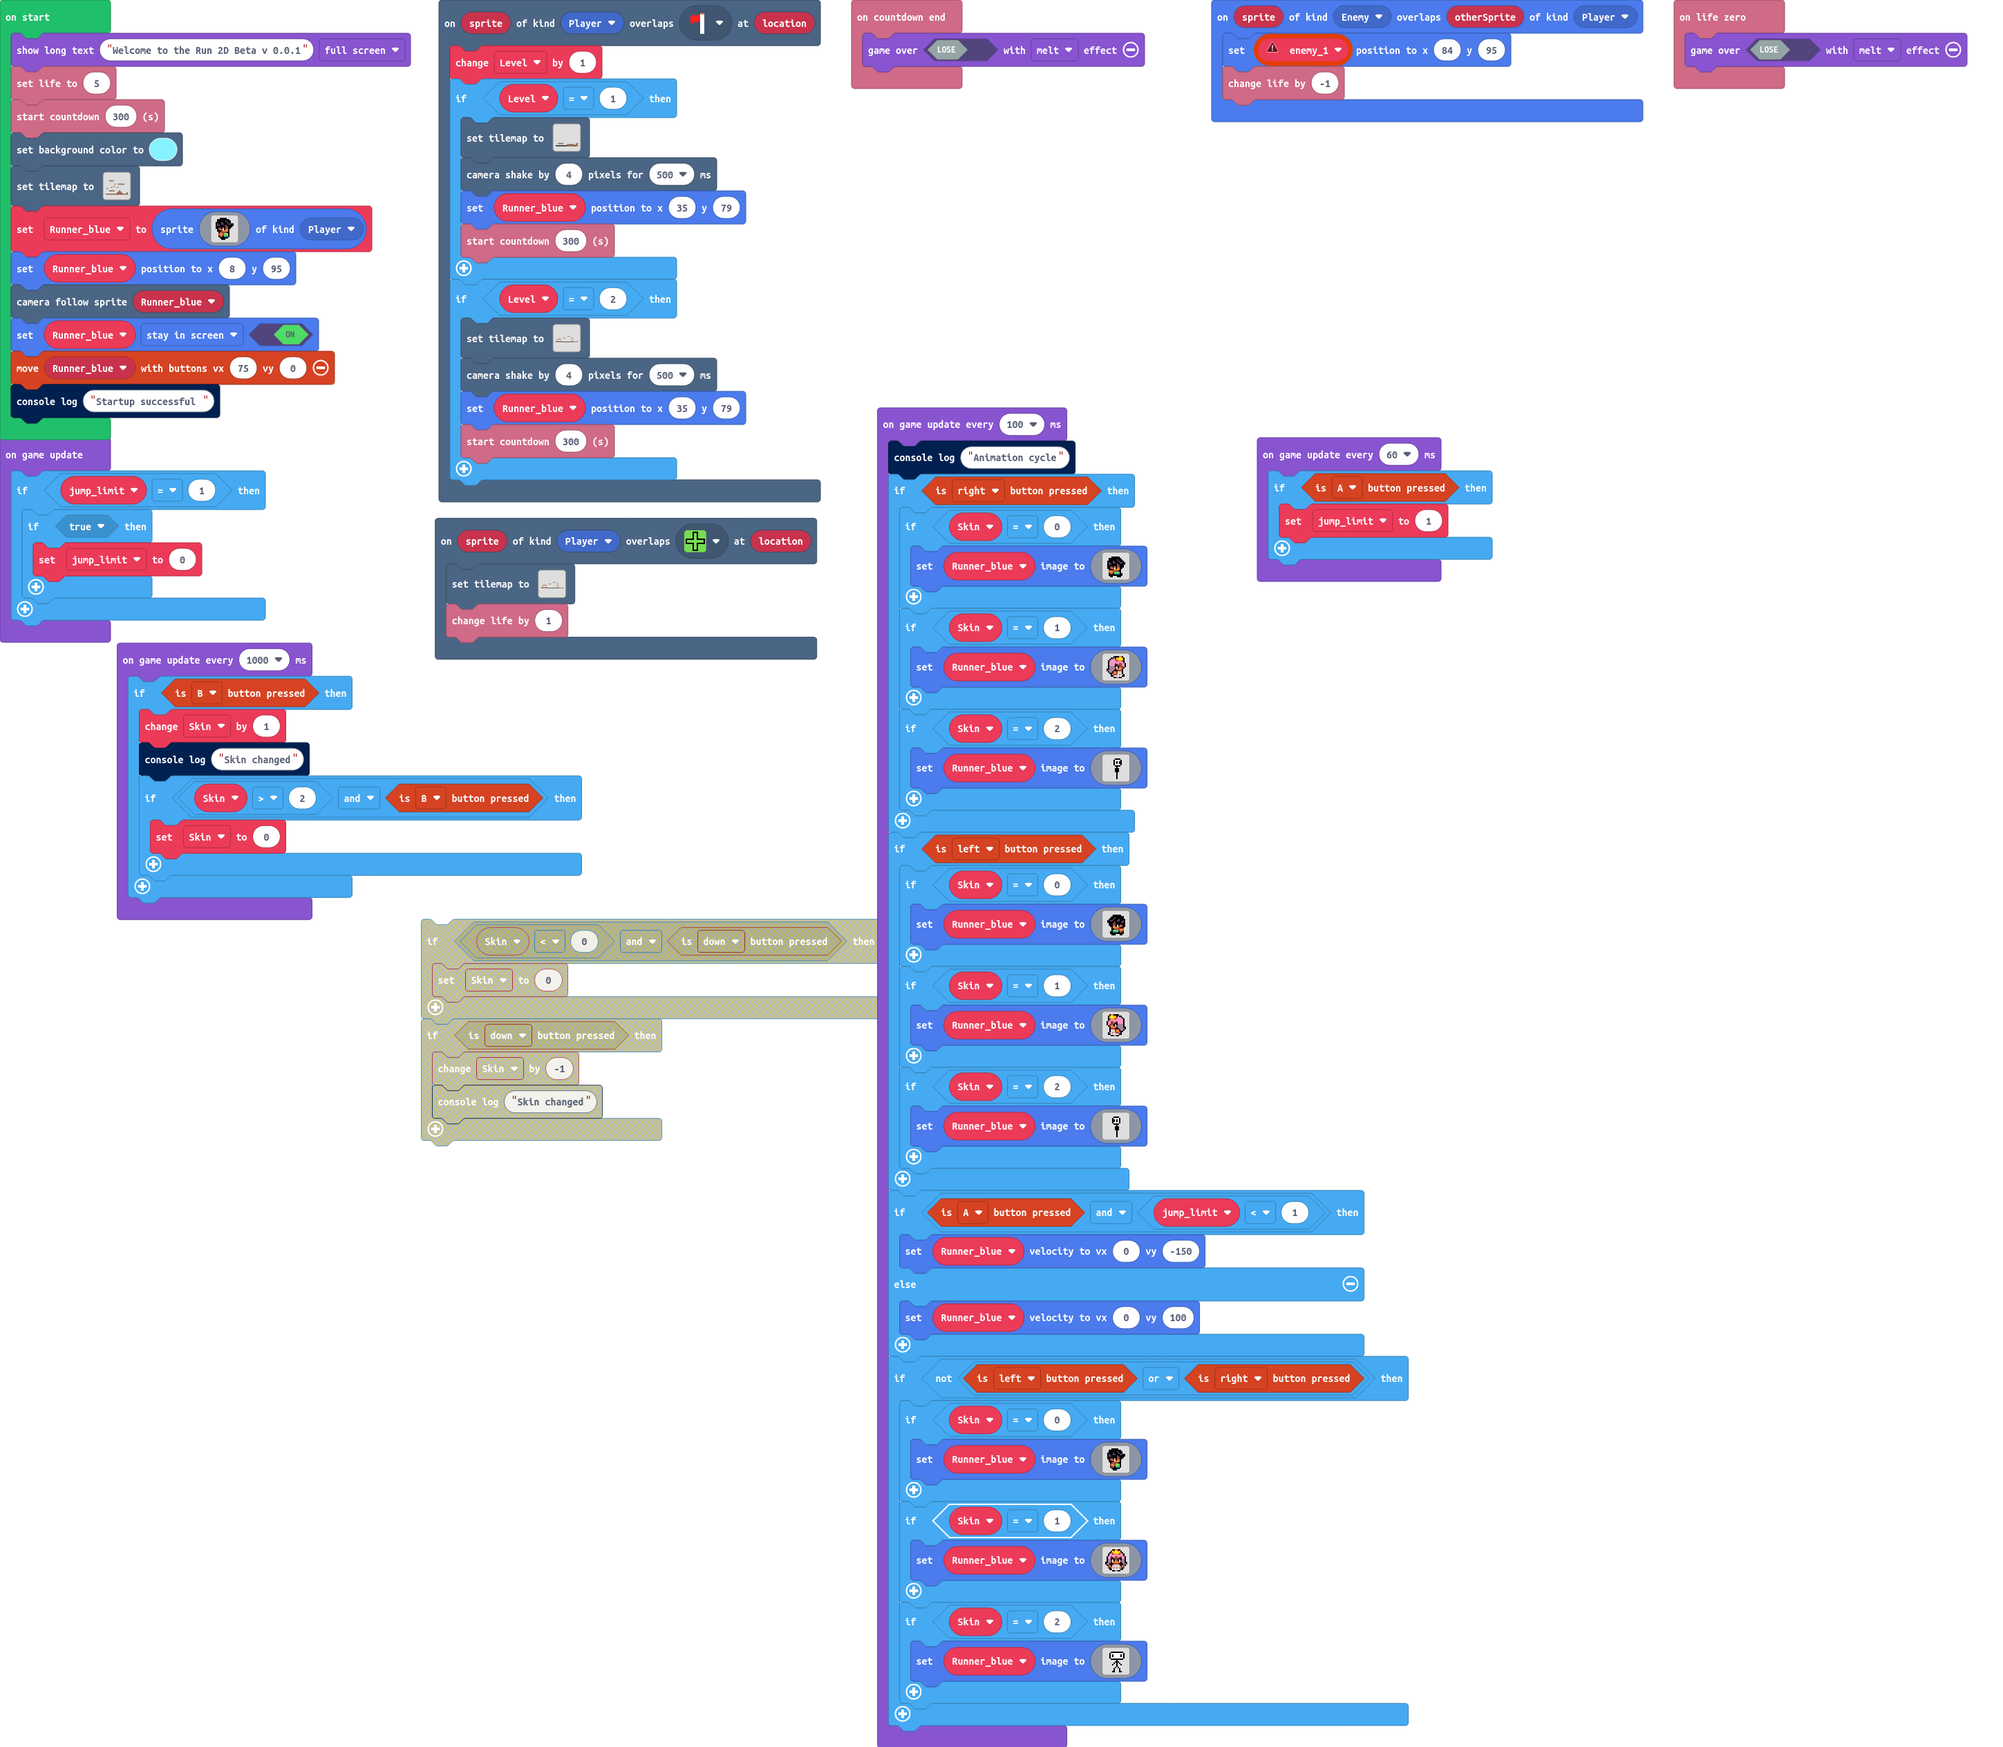
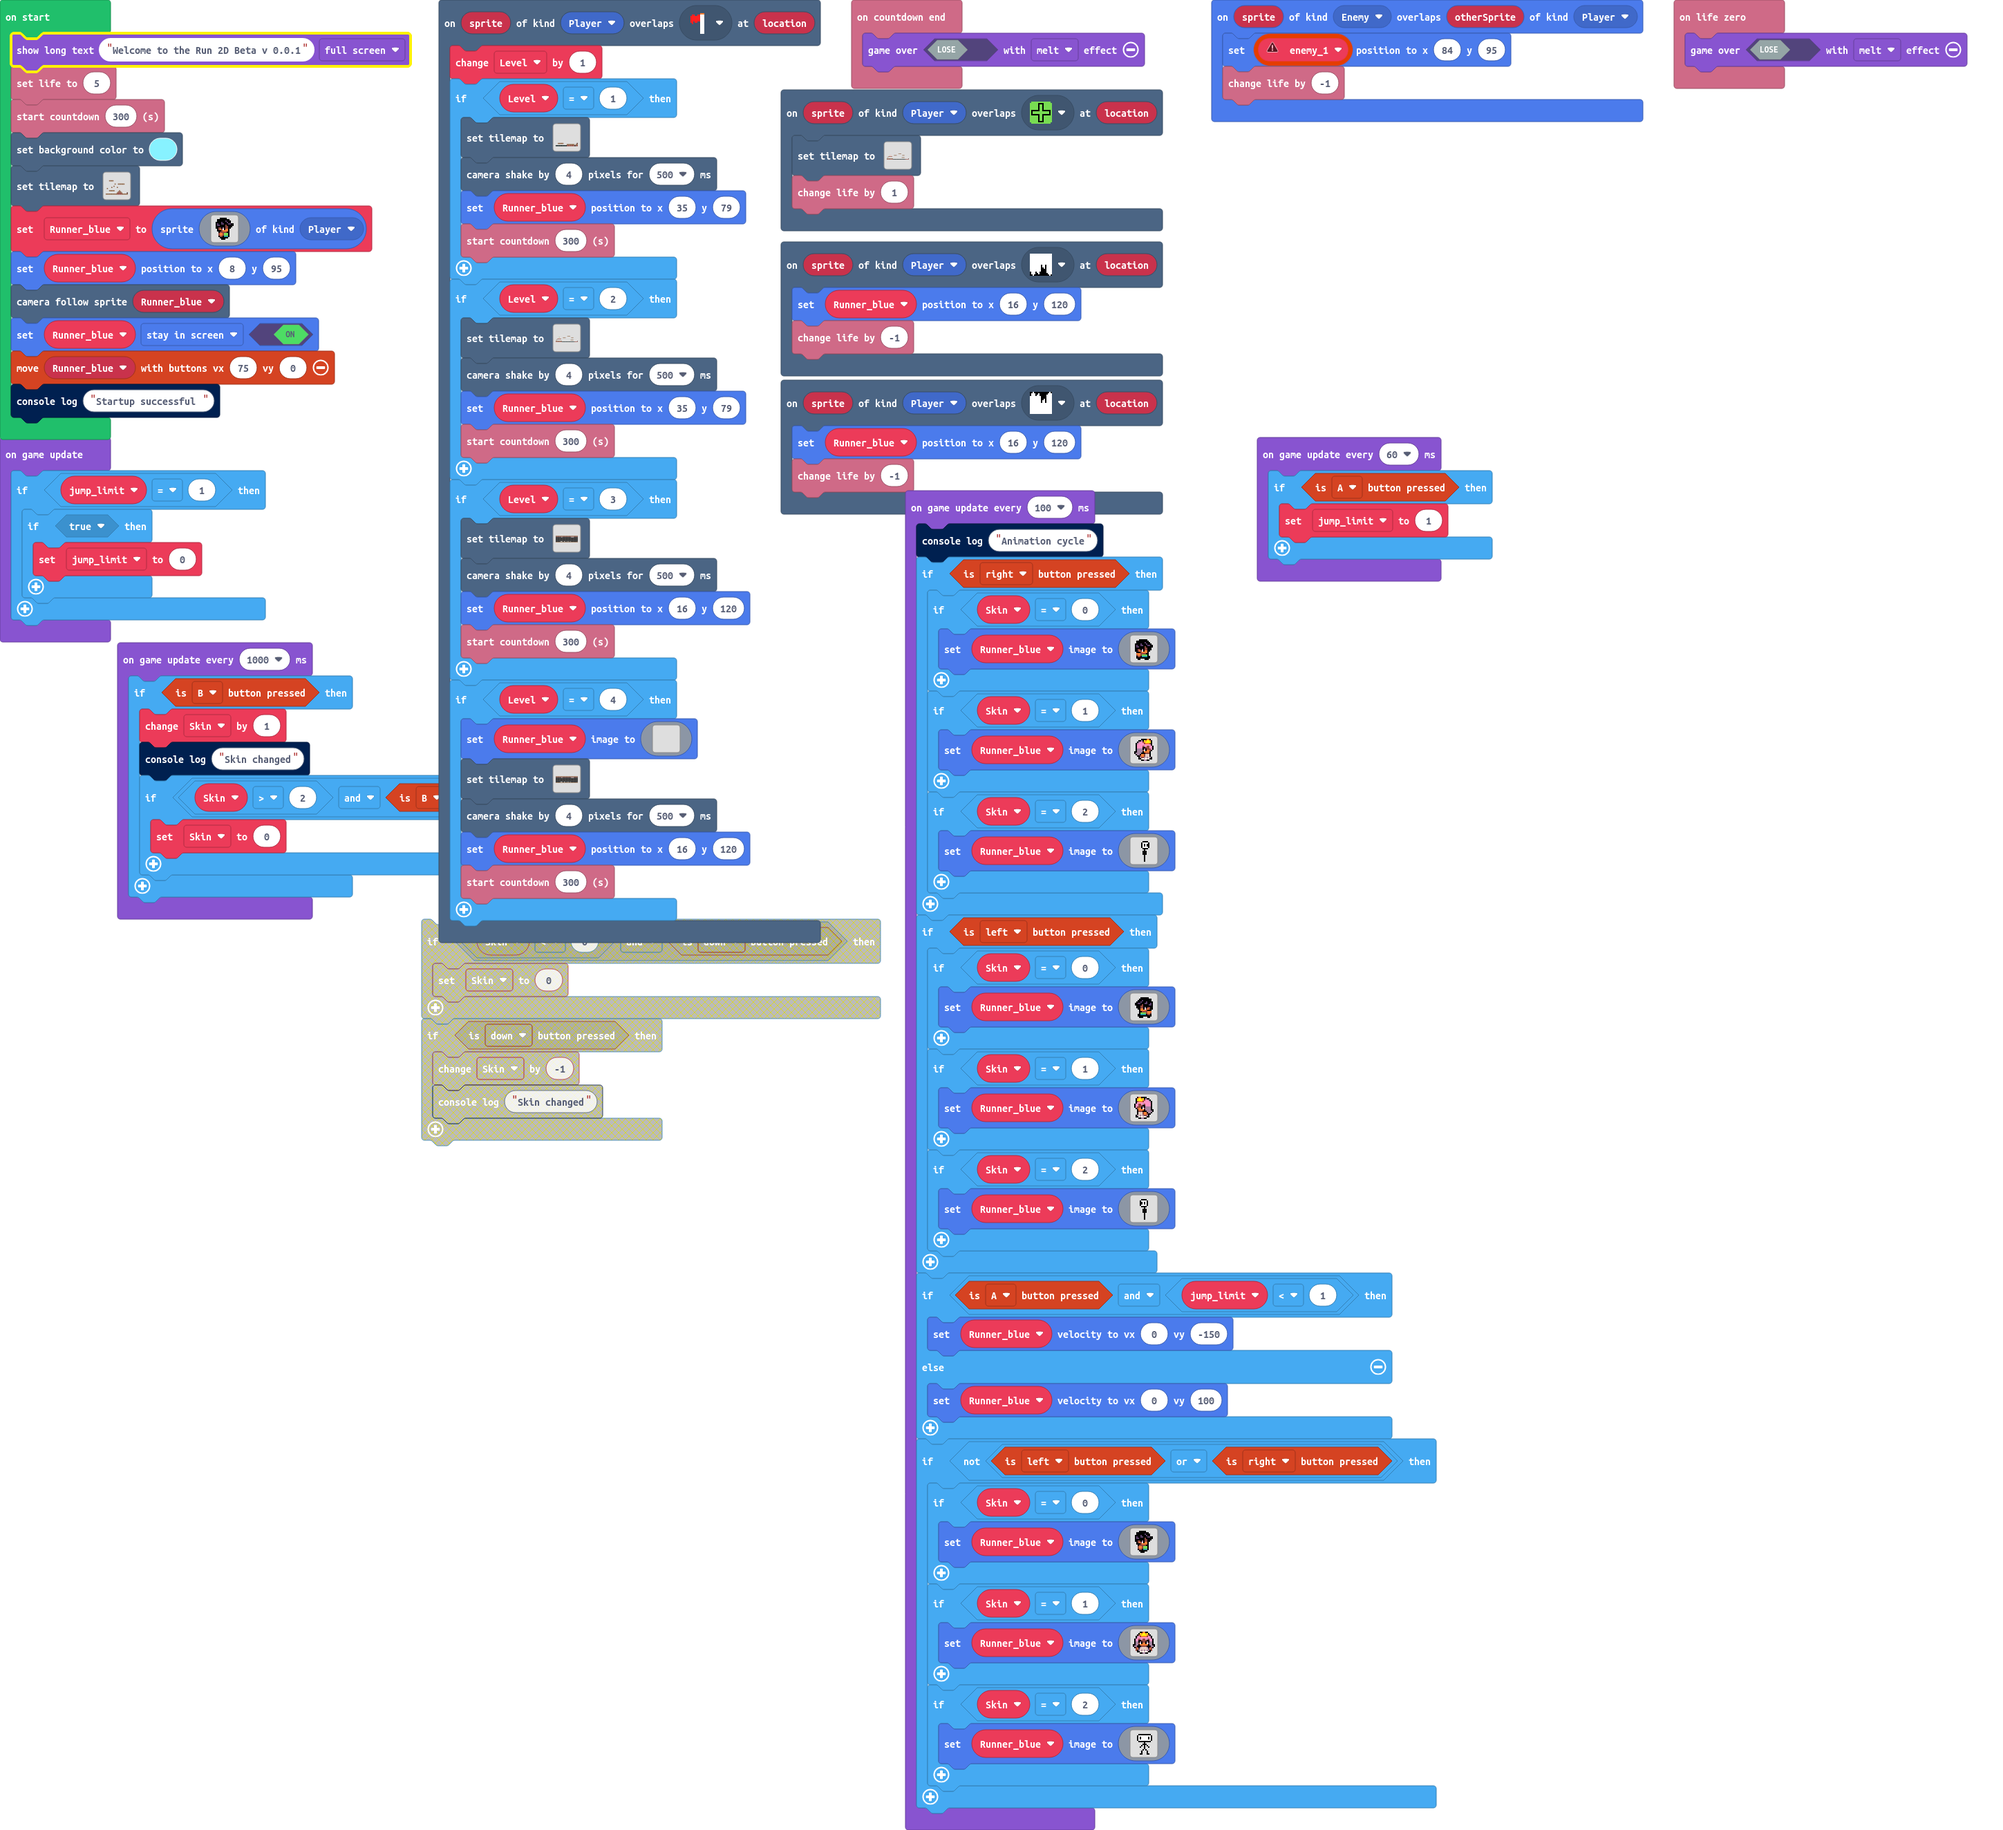
Update main.blocks, main.ts, tilemap.g.jres, tilemap.g.ts

diff --git a/main.ts b/main.ts
@@ -1,3 +1,7 @@
+scene.onOverlapTile(SpriteKind.Player, myTiles.tile22, function (sprite, location) {
+    Runner_blue.setPosition(16, 120)
+    info.changeLifeBy(-1)
+})
 scene.onOverlapTile(SpriteKind.Player, myTiles.tile16, function (sprite, location) {
     Level += 1
     if (Level == 1) {
@@ -46,6 +50,70 @@ scene.onOverlapTile(SpriteKind.Player, myTiles.tile16, function (sprite, locatio
         Runner_blue.setPosition(35, 79)
         info.startCountdown(300)
     }
+    if (Level == 3) {
+        tiles.setTilemap(tiles.createTilemap(hex`2800100000000000000000000000000000000000000000000000000000000000000000000000000000000000000000000000000000000000000000000000000000000000000000000000000000000000000000000000000000000000000000000000000000000000000000000000000000000000000000000000000000000000000000000000000000000000000000000000000000000000000000000000000000000000010101010101010101010101010101010101010101010101010101010101010101010101010101010202020202020202020202020202020202020202020202020202020202020202020202020202020203030303030303030303050503030303030303030303030303030303050505050503030303030303030303030303030303030303030303030303030303030303030303030303030303030303030303030303030303030303030303030303030303030303030303030303030303030303030303030303030303030303030303030303030303030303030303030303030303030303030303030303030303030303030303030303030303030303030303030303030303030303030303030303030303030303030303030303030303030303030303030303030303030303030303030303030303030303030303030303030303030303030303030303030303030303030303030303030303030303030303030303030303030303030303030303030303030303030303030303030303030303030303030303030303030303030303030303030303030303030404040303030404030303040303040303040303030303030303030303030601010101010101010101010101010101010101010101010101010101010101010101010101010101`, img`
+            . . . . . . . . . . . . . . . . . . . . . . . . . . . . . . . . . . . . . . . . 
+            . . . . . . . . . . . . . . . . . . . . . . . . . . . . . . . . . . . . . . . . 
+            . . . . . . . . . . . . . . . . . . . . . . . . . . . . . . . . . . . . . . . . 
+            . . . . . . . . . . . . . . . . . . . . . . . . . . . . . . . . . . . . . . . . 
+            . . . . . . . . . . . . . . . . . . . . . . . . . . . . . . . . . . . . . . . . 
+            2 2 2 2 2 2 2 2 2 2 2 2 2 2 2 2 2 2 2 2 2 2 2 2 2 2 2 2 2 2 2 2 2 2 2 2 2 2 2 2 
+            . . . . . . . . . . . . . . . . . . . . . . . . . . . . . . . . . . . . . . . . 
+            . . . . . . . . . . . . . . . . . . . . . . . . . . . . . . . . . . . . . . . . 
+            . . . . . . . . . . . . . . . . . . . . . . . . . . . . . . . . . . . . . . . . 
+            . . . . . . . . . . . . . . . . . . . . . . . . . . . . . . . . . . . . . . . . 
+            . . . . . . . . . . . . . . . . . . . . . . . . . . . . . . . . . . . . . . . . 
+            . . . . . . . . . . . . . . . . . . . . . . . . . . . . . . . . . . . . . . . . 
+            . . . . . . . . . . . . . . . . . . . . . . . . . . . . . . . . . . . . . . . . 
+            . . . . . . . . . . . . . . . . . . . . . . . . . . . . . . . . . . . . . . . . 
+            . . . . . . . . . . . . . . . . . . . . . . . . . . . . . . . . . . . . . . . . 
+            2 2 2 2 2 2 2 2 2 2 2 2 2 2 2 2 2 2 2 2 2 2 2 2 2 2 2 2 2 2 2 2 2 2 2 2 2 2 2 2 
+            `, [myTiles.transparency16,myTiles.tile4,myTiles.tile6,myTiles.tile19,myTiles.tile21,myTiles.tile22,myTiles.tile24], TileScale.Sixteen))
+        scene.cameraShake(4, 500)
+        Runner_blue.setPosition(16, 120)
+        info.startCountdown(300)
+    }
+    if (Level == 4) {
+        Runner_blue.setImage(img`
+            . . . . . . . . . . . . . . . . 
+            . . . . . . . . . . . . . . . . 
+            . . . . . . . . . . . . . . . . 
+            . . . . . . . . . . . . . . . . 
+            . . . . . . . . . . . . . . . . 
+            . . . . . . . . . . . . . . . . 
+            . . . . . . . . . . . . . . . . 
+            . . . . . . . . . . . . . . . . 
+            . . . . . . . . . . . . . . . . 
+            . . . . . . . . . . . . . . . . 
+            . . . . . . . . . . . . . . . . 
+            . . . . . . . . . . . . . . . . 
+            . . . . . . . . . . . . . . . . 
+            . . . . . . . . . . . . . . . . 
+            . . . . . . . . . . . . . . . . 
+            . . . . . . . . . . . . . . . . 
+            `)
+        tiles.setTilemap(tiles.createTilemap(hex`2800100000000000000000000000000000000000000000000000000000000000000000000000000000000000000000000000000000000000000000000000000000000000000000000000000000000000000000000000000000000000000000000000000000000000000000000000000000000000000000000000000000000000000000000000000000000000000000000000000000000000000000000000000000000000000000000000000000000000000000000000000000000000000000000000000000000000000000000000000000000000000000000000000000000000000000000000000000000000000000000000000000000000000000000000000000000000000000000000000000000000000000000000000000000000000000000000000000000000000000000000000000000000000000000000000000000000000000000000000000000000000000000000000000000000000000000000000000000000000000000000000000000000000000000000000000000000000000000000000000000000000000000000000000000000000000000000000000000000000000000000000000000000000000000000000000000000000000000000000000000000000000000000000000000000000000000000000000000000000000000000000000000000000000000000000000000000000000000000000000000000000000000000000000000000000000000000000000000000000000000000000000000000000000000000000000000000000000000000000000000000000000000000000000000000000000000000000000000000000000000000000000000000000000000000000000000000000000000000000000000000000000000000000000000000`, img`
+            2 2 2 2 2 2 2 2 2 2 2 2 2 2 2 2 2 2 2 2 2 2 2 2 2 2 2 2 2 2 2 2 2 2 2 2 2 2 2 2 
+            2 2 2 2 2 2 2 2 2 2 2 2 2 2 2 2 2 2 2 2 2 2 2 2 2 2 2 2 2 2 2 2 2 2 2 2 2 2 2 2 
+            2 2 2 2 2 2 2 2 2 2 2 2 2 2 2 2 2 2 2 2 2 2 2 2 2 2 2 2 2 2 2 2 2 2 2 2 2 2 2 2 
+            2 2 2 2 2 2 2 2 2 2 2 2 2 2 2 2 2 2 2 2 2 2 2 2 2 2 2 2 2 2 2 2 2 2 2 2 2 2 2 2 
+            2 2 2 2 2 2 2 2 2 2 2 2 2 2 2 2 2 2 2 2 2 2 2 2 2 2 2 2 2 2 2 2 2 2 2 2 2 2 2 2 
+            2 2 2 2 2 2 2 2 2 2 2 2 2 2 2 2 2 2 2 2 2 2 2 2 2 2 2 2 2 2 2 2 2 2 2 2 2 2 2 2 
+            2 2 2 2 2 2 2 2 2 2 2 2 2 2 2 2 2 2 2 2 2 2 2 2 2 2 2 2 2 2 2 2 2 2 2 2 2 2 2 2 
+            2 2 2 2 2 2 2 2 2 2 2 2 2 2 2 2 2 2 2 2 2 2 2 2 2 2 2 2 2 2 2 2 2 2 2 2 2 2 2 2 
+            2 2 2 2 2 2 2 2 2 2 2 2 2 2 2 2 2 2 2 2 2 2 2 2 2 2 2 2 2 2 2 2 2 2 2 2 2 2 2 2 
+            2 2 2 2 2 2 2 2 2 2 2 2 2 2 2 2 2 2 2 2 2 2 2 2 2 2 2 2 2 2 2 2 2 2 2 2 2 2 2 2 
+            2 2 2 2 2 2 2 2 2 2 2 2 2 2 2 2 2 2 2 2 2 2 2 2 2 2 2 2 2 2 2 2 2 2 2 2 2 2 2 2 
+            2 2 2 2 2 2 2 2 2 2 2 2 2 2 2 2 2 2 2 2 2 2 2 2 2 2 2 2 2 2 2 2 2 2 2 2 2 2 2 2 
+            2 2 2 2 2 2 2 2 2 2 2 2 2 2 2 2 2 2 2 2 2 2 2 2 2 2 2 2 2 2 2 2 2 2 2 2 2 2 2 2 
+            2 2 2 2 2 2 2 2 2 2 2 2 2 2 2 2 2 2 2 2 2 2 2 2 2 2 2 2 2 2 2 2 2 2 2 2 2 2 2 2 
+            2 2 2 2 2 2 2 2 2 2 2 2 2 2 2 2 2 2 2 2 2 2 2 2 2 2 2 2 2 2 2 2 2 2 2 2 2 2 2 2 
+            2 2 2 2 2 2 2 2 2 2 2 2 2 2 2 2 2 2 2 2 2 2 2 2 2 2 2 2 2 2 2 2 2 2 2 2 2 2 2 2 
+            `, [myTiles.transparency16,myTiles.tile4,myTiles.tile6,myTiles.tile19,myTiles.tile21,myTiles.tile22,myTiles.tile24,myTiles.tile1,myTiles.tile2,myTiles.tile3,myTiles.tile5,myTiles.tile7,myTiles.tile8,myTiles.tile9,myTiles.tile10,myTiles.tile11,myTiles.tile12,myTiles.tile13,myTiles.tile14,myTiles.tile15,myTiles.tile16,myTiles.tile17,myTiles.tile18,myTiles.tile20,myTiles.tile23], TileScale.Sixteen))
+        scene.cameraShake(4, 500)
+        Runner_blue.setPosition(16, 120)
+        info.startCountdown(300)
+    }
 })
 info.onCountdownEnd(function () {
     game.over(false, effects.melt)
@@ -74,6 +142,10 @@ scene.onOverlapTile(SpriteKind.Player, myTiles.tile17, function (sprite, locatio
 sprites.onOverlap(SpriteKind.Enemy, SpriteKind.Player, function (sprite, otherSprite) {
     let enemy_1: Sprite = null
     enemy_1.setPosition(84, 95)
+    info.changeLifeBy(-1)
+})
+scene.onOverlapTile(SpriteKind.Player, myTiles.tile21, function (sprite, location) {
+    Runner_blue.setPosition(16, 120)
     info.changeLifeBy(-1)
 })
 info.onLifeZero(function () {

diff --git a/tilemap.g.ts b/tilemap.g.ts
@@ -38,6 +38,18 @@ namespace myTiles {
     export const tile17 = image.ofBuffer(hex``);
     //% fixedInstance jres blockIdentity=images._tile
     export const tile18 = image.ofBuffer(hex``);
+    //% fixedInstance jres blockIdentity=images._tile
+    export const tile19 = image.ofBuffer(hex``);
+    //% fixedInstance jres blockIdentity=images._tile
+    export const tile20 = image.ofBuffer(hex``);
+    //% fixedInstance jres blockIdentity=images._tile
+    export const tile21 = image.ofBuffer(hex``);
+    //% fixedInstance jres blockIdentity=images._tile
+    export const tile22 = image.ofBuffer(hex``);
+    //% fixedInstance jres blockIdentity=images._tile
+    export const tile23 = image.ofBuffer(hex``);
+    //% fixedInstance jres blockIdentity=images._tile
+    export const tile24 = image.ofBuffer(hex``);
 
 }
 // Auto-generated code. Do not edit.
